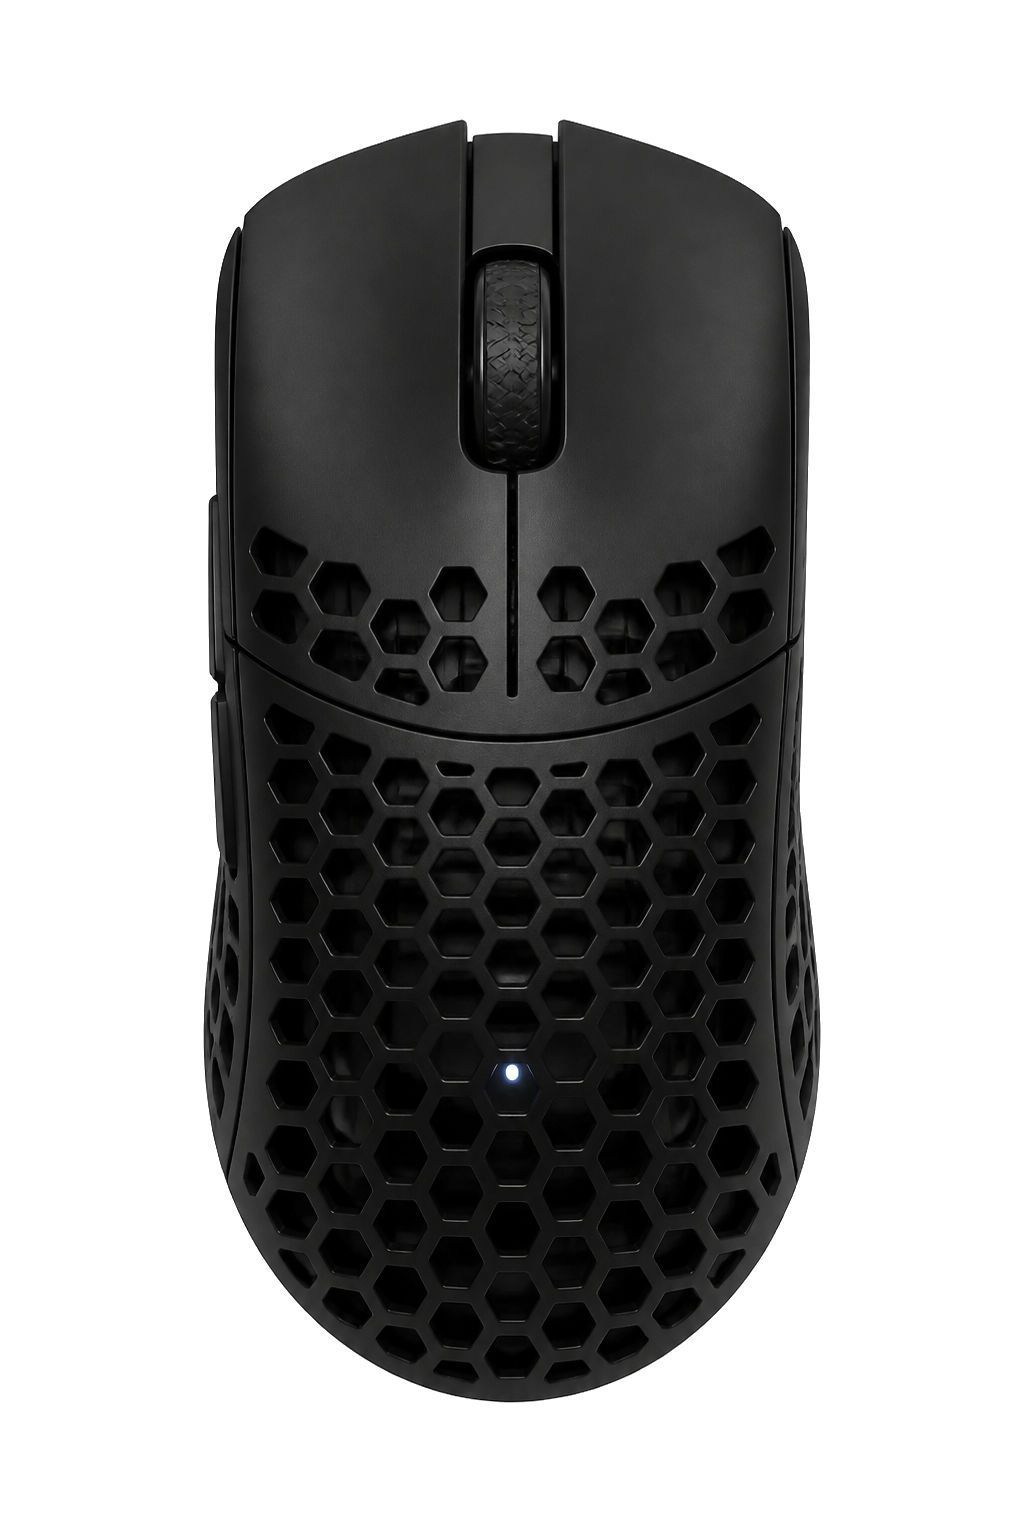
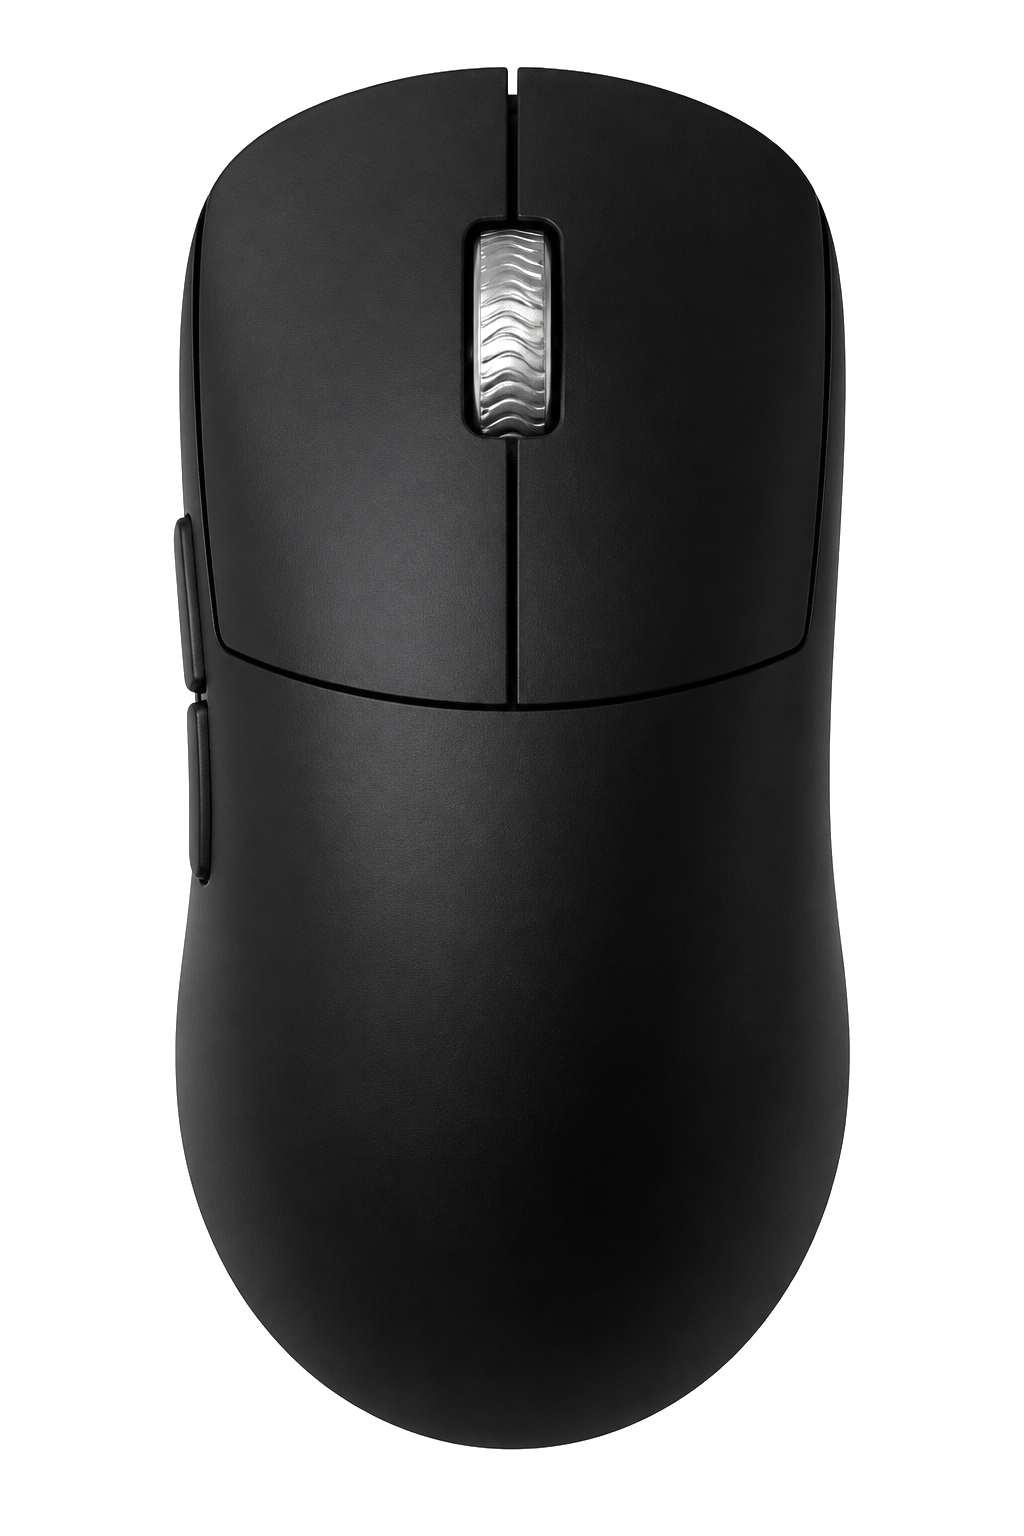
Fix Maya X hero image to solid-shell product look
Replace the incorrect honeycomb mouse with a solid matte Maya X
top-down asset (silver scroll wheel) and update the angle-tune
silhouette to match.

Changed region(s): [[0.1562, 0.0312, 0.8438, 0.9688]]

diff --git a/src/control.ts b/src/control.ts
@@ -302,7 +302,7 @@ function renderControl(): void {
         </section>
         <section class="device-overview device-data" aria-label="Device status">
           <div class="mouse-stage" id="overview-mouse-stage" hidden>
-            <img class="mouse-image" id="overview-mouse-image" src="/maya-x-top.png" alt="Top view of a Lamzu Maya X gaming mouse" />
+            <img class="mouse-image" id="overview-mouse-image" src="/maya-x-top.png?v=2" alt="Top view of a Lamzu Maya X gaming mouse" />
             <span class="model-caption" id="overview-model-caption">MAYA X</span>
           </div>
           <div class="quick-stats">
@@ -323,7 +323,7 @@ function renderControl(): void {
           <article id="signal-settings" class="setting-card" style="min-height:0;padding:.8rem"><div class="setting-heading" style="margin-bottom:.55rem"><div><p>WIRELESS</p><h2>Signal strength</h2></div><output id="signal-output">—</output></div><small id="signal-detail" class="setting-note">Receiver signal is unavailable.</small></article>
           <article id="debounce-settings" class="setting-card" style="min-height:0;padding:.8rem"><div class="setting-heading" style="margin-bottom:.55rem"><div><p>CLICK</p><h2>Debounce</h2></div></div><select id="debounce-select" style="width:100%;padding:.48rem;border:1px solid #343438;border-radius:6px;background:#171719;color:#eee"></select></article>
           <article id="sleep-settings" class="setting-card" style="min-height:0;padding:.8rem"><div class="setting-heading" style="margin-bottom:.55rem"><div><p>POWER</p><h2>Auto sleep</h2></div><button id="sleep-toggle" type="button" role="switch" aria-checked="false" hidden style="min-width:42px;padding:.2rem .45rem;border:1px solid #3a3a3f;border-radius:999px;background:#202023;color:#8b8b90;font-size:.58rem">Off</button></div><select id="sleep-select" style="width:100%;padding:.48rem;border:1px solid #343438;border-radius:6px;background:#171719;color:#eee"><option value="1">10 seconds</option><option value="3">30 seconds</option><option value="6">1 minute</option><option value="12">2 minutes</option><option value="30">5 minutes</option><option value="60">10 minutes</option><option value="180">30 minutes</option></select></article>
-          <article id="processing-settings" class="setting-card" style="min-height:0;padding:.8rem"><div class="setting-heading" style="margin-bottom:.55rem"><div><p>SENSOR</p><h2>Processing</h2></div></div><div style="display:flex;justify-content:space-between;align-items:center;gap:.5rem;padding:.2rem 0;color:#b3b3b7;font-size:.7rem"><span>Motion Sync</span><button id="motion-sync-toggle" type="button" role="switch" aria-checked="false" style="min-width:42px;padding:.2rem .45rem;border:1px solid #3a3a3f;border-radius:999px;background:#202023;color:#8b8b90;font-size:.58rem">Off</button></div><div style="display:flex;justify-content:space-between;align-items:center;gap:.5rem;padding:.2rem 0;color:#b3b3b7;font-size:.7rem"><span>Angle snapping</span><button id="angle-snapping-toggle" type="button" role="switch" aria-checked="false" style="min-width:42px;padding:.2rem .45rem;border:1px solid #3a3a3f;border-radius:999px;background:#202023;color:#8b8b90;font-size:.58rem">Off</button></div><div style="display:flex;justify-content:space-between;align-items:center;gap:.5rem;padding:.2rem 0;color:#b3b3b7;font-size:.7rem"><span>Ripple control</span><button id="ripple-control-toggle" type="button" role="switch" aria-checked="false" style="min-width:42px;padding:.2rem .45rem;border:1px solid #3a3a3f;border-radius:999px;background:#202023;color:#8b8b90;font-size:.58rem">Off</button></div><div id="performance-mode-setting" style="display:flex;justify-content:space-between;align-items:center;gap:.5rem;padding:.2rem 0;color:#b3b3b7;font-size:.7rem"><span>Performance mode</span><button id="performance-mode-toggle" type="button" role="switch" aria-checked="false" style="min-width:42px;padding:.2rem .45rem;border:1px solid #3a3a3f;border-radius:999px;background:#202023;color:#8b8b90;font-size:.58rem">Off</button></div><div id="lamzu-angle-tune-row" hidden style="display:none;margin-top:.55rem;padding-top:.55rem;border-top:1px solid #29292d"><div class="angle-tune-panel"><div class="angle-tune-visual" aria-hidden="true"><div class="angle-tune-ring"><span class="angle-tune-axis"></span><img id="lamzu-angle-tune-indicator" class="angle-tune-mouse" src="/maya-x-angle.svg" alt="" /></div></div><label class="angle-tune-controls" for="lamzu-angle-tune"><span class="angle-tune-label">Angle tune<strong id="lamzu-angle-tune-value">0°</strong></span><input id="lamzu-angle-tune" type="range" min="-30" max="30" step="1" value="0" /><span class="range-labels"><span>−30°</span><span>0°</span><span>+30°</span></span><small class="setting-note">Rotates the sensor coordinate plane to match how you hold the mouse.</small></label></div></div></article>
+          <article id="processing-settings" class="setting-card" style="min-height:0;padding:.8rem"><div class="setting-heading" style="margin-bottom:.55rem"><div><p>SENSOR</p><h2>Processing</h2></div></div><div style="display:flex;justify-content:space-between;align-items:center;gap:.5rem;padding:.2rem 0;color:#b3b3b7;font-size:.7rem"><span>Motion Sync</span><button id="motion-sync-toggle" type="button" role="switch" aria-checked="false" style="min-width:42px;padding:.2rem .45rem;border:1px solid #3a3a3f;border-radius:999px;background:#202023;color:#8b8b90;font-size:.58rem">Off</button></div><div style="display:flex;justify-content:space-between;align-items:center;gap:.5rem;padding:.2rem 0;color:#b3b3b7;font-size:.7rem"><span>Angle snapping</span><button id="angle-snapping-toggle" type="button" role="switch" aria-checked="false" style="min-width:42px;padding:.2rem .45rem;border:1px solid #3a3a3f;border-radius:999px;background:#202023;color:#8b8b90;font-size:.58rem">Off</button></div><div style="display:flex;justify-content:space-between;align-items:center;gap:.5rem;padding:.2rem 0;color:#b3b3b7;font-size:.7rem"><span>Ripple control</span><button id="ripple-control-toggle" type="button" role="switch" aria-checked="false" style="min-width:42px;padding:.2rem .45rem;border:1px solid #3a3a3f;border-radius:999px;background:#202023;color:#8b8b90;font-size:.58rem">Off</button></div><div id="performance-mode-setting" style="display:flex;justify-content:space-between;align-items:center;gap:.5rem;padding:.2rem 0;color:#b3b3b7;font-size:.7rem"><span>Performance mode</span><button id="performance-mode-toggle" type="button" role="switch" aria-checked="false" style="min-width:42px;padding:.2rem .45rem;border:1px solid #3a3a3f;border-radius:999px;background:#202023;color:#8b8b90;font-size:.58rem">Off</button></div><div id="lamzu-angle-tune-row" hidden style="display:none;margin-top:.55rem;padding-top:.55rem;border-top:1px solid #29292d"><div class="angle-tune-panel"><div class="angle-tune-visual" aria-hidden="true"><div class="angle-tune-ring"><span class="angle-tune-axis"></span><img id="lamzu-angle-tune-indicator" class="angle-tune-mouse" src="/maya-x-angle.svg?v=2" alt="" /></div></div><label class="angle-tune-controls" for="lamzu-angle-tune"><span class="angle-tune-label">Angle tune<strong id="lamzu-angle-tune-value">0°</strong></span><input id="lamzu-angle-tune" type="range" min="-30" max="30" step="1" value="0" /><span class="range-labels"><span>−30°</span><span>0°</span><span>+30°</span></span><small class="setting-note">Rotates the sensor coordinate plane to match how you hold the mouse.</small></label></div></div></article>
           <article id="egg-filter-settings" class="setting-card" style="display:none;min-height:0;padding:.8rem"><div class="setting-heading" style="margin-bottom:.55rem"><div><p>SENSOR</p><h2>Filters</h2></div></div><div style="display:flex;justify-content:space-between;align-items:center;gap:.5rem;padding:.2rem 0;color:#b3b3b7;font-size:.7rem"><span>Slamclick filter</span><button id="slamclick-filter-toggle" type="button" role="switch" aria-checked="false" style="min-width:42px;padding:.2rem .45rem;border:1px solid #3a3a3f;border-radius:999px;background:#202023;color:#8b8b90;font-size:.58rem">Off</button></div><div style="display:flex;justify-content:space-between;align-items:center;gap:.5rem;padding:.2rem 0;color:#b3b3b7;font-size:.7rem"><span>Motion-jitter filter</span><button id="motion-jitter-filter-toggle" type="button" role="switch" aria-checked="false" style="min-width:42px;padding:.2rem .45rem;border:1px solid #3a3a3f;border-radius:999px;background:#202023;color:#8b8b90;font-size:.58rem">Off</button></div></article>
           <article id="egg-sensor-tuning" class="setting-card" style="display:none;min-height:0;padding:.8rem"><div class="setting-heading" style="margin-bottom:.55rem"><div><p>PAW3950</p><h2>Sensor tuning</h2></div></div><div id="egg-glass-row" style="display:flex;justify-content:space-between;align-items:center;gap:.5rem;padding:.2rem 0;color:#b3b3b7;font-size:.7rem"><span>Glass Mode</span><button id="egg-glass-toggle" type="button" role="switch" aria-checked="false" style="min-width:42px;padding:.2rem .45rem;border:1px solid #3a3a3f;border-radius:999px;background:#202023;color:#8b8b90;font-size:.58rem">Off</button></div><div id="egg-v2-sensor-controls"><div style="display:flex;justify-content:space-between;align-items:center;gap:.5rem;padding:.2rem 0;color:#b3b3b7;font-size:.7rem"><span>Force max Sensor FPS</span><button id="egg-max-fps-toggle" type="button" role="switch" aria-checked="false" style="min-width:42px;padding:.2rem .45rem;border:1px solid #3a3a3f;border-radius:999px;background:#202023;color:#8b8b90;font-size:.58rem">Off</button></div><div style="display:flex;justify-content:space-between;align-items:center;gap:.5rem;padding:.2rem 0;color:#b3b3b7;font-size:.7rem"><span>Disable LED on lift-off</span><button id="egg-led-lift-toggle" type="button" role="switch" aria-checked="false" style="min-width:42px;padding:.2rem .45rem;border:1px solid #3a3a3f;border-radius:999px;background:#202023;color:#8b8b90;font-size:.58rem">Off</button></div><label style="display:block;margin-top:.35rem;color:#77777c;font-size:.62rem">Sensor angle tuning<input id="egg-angle-tuning" type="number" min="-127" max="127" step="1" style="width:100%;box-sizing:border-box;margin-top:.2rem;padding:.4rem;border:1px solid #343438;border-radius:6px;background:#171719;color:#eee" /></label></div></article>
           <article id="egg-spdt-settings" class="setting-card" style="display:none;min-height:0;padding:.8rem"><div class="setting-heading" style="margin-bottom:.55rem"><div><p>CLICK</p><h2>GX switch mode</h2></div></div><label style="display:block;color:#77777c;font-size:.62rem">Left button<select id="left-spdt-select" style="width:100%;margin-top:.2rem;padding:.4rem;border:1px solid #343438;border-radius:6px;background:#171719;color:#eee"><option>Off</option><option>GX Safe</option><option>GX Speed</option></select></label><label style="display:block;margin-top:.45rem;color:#77777c;font-size:.62rem">Right button<select id="right-spdt-select" style="width:100%;margin-top:.2rem;padding:.4rem;border:1px solid #343438;border-radius:6px;background:#171719;color:#eee"><option>Off</option><option>GX Safe</option><option>GX Speed</option></select></label></article>
@@ -714,7 +714,7 @@ function showStatus(status: MouseStatus): void {
       }
       const mouseImage = document.querySelector<HTMLImageElement>("#overview-mouse-image");
       if (mouseImage) {
-        mouseImage.src = "/maya-x-top.png";
+        mouseImage.src = "/maya-x-top.png?v=2";
         mouseImage.alt = `Top view of ${status.name}`;
       }
     } else {
